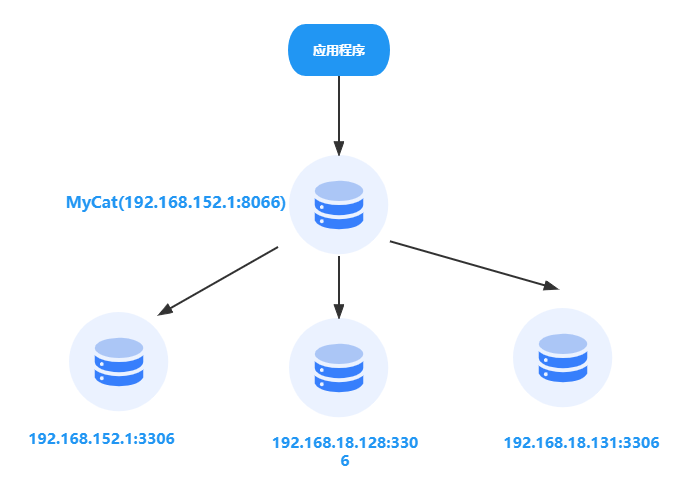
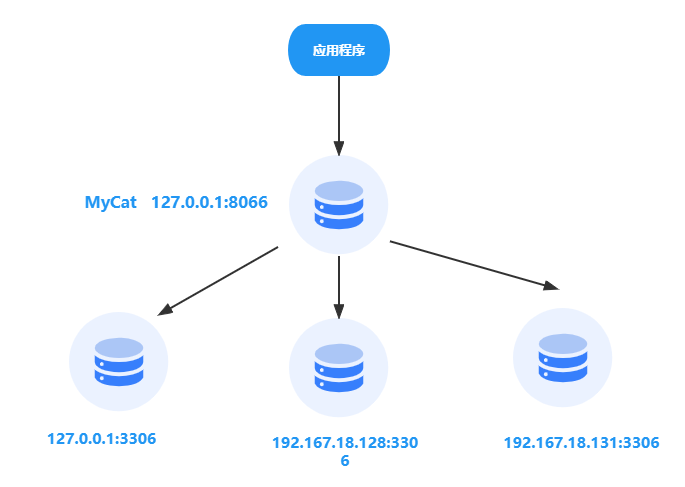
mycat

diff --git a/md/mysql/mycat1.md b/md/mysql/mycat1.md
@@ -29,11 +29,6 @@
 #### 1. 需求
 `cloud_goods`表数据量过大，需要进行数据分片，分为3个数据节点，每个节点位于不同服务器上
 
-* `192.168.152.1:8066`  MyCat服务器
-* `192.168.152.1:3306`       MySQL分片服务器1
-* `192.167.18.128:3306`      MySQL分片服务器2
-* `192.167.18.131:3306`      MySQL分片服务器3
-
 ![](https://fgq233.github.io/imgs/mysql/mycat3.png)
 
 
@@ -46,7 +41,7 @@
 	<!-- 逻辑库 -->
 	<schema name="dbX" checkSQLschema="true" sqlMaxLimit="100">
 		<!-- 逻辑表 -->
-		<table name="cloud_goods" primaryKey="id" dataNode="dn1,dn2,dn3" rule="sharding-by-intfile" autoIncrement="true" fetchStoreNodeByJdbc="true"/>
+		<table name="cloud_goods" primaryKey="id" dataNode="dn1,dn2,dn3" rule="auto-sharding-long" autoIncrement="true" />
 	</schema>
 	 
 	<!-- 分片节点 -->
@@ -58,17 +53,17 @@
 	 <!-- 节点主机1 -->
 	<dataHost name="dataHost1" maxCon="1000" minCon="10" balance="0" writeType="0" dbType="mysql" dbDriver="jdbc" switchType="1"  slaveThreshold="100">
 		<heartbeat>select user()</heartbeat>
-		<writeHost host="master" url="jdbc:mysql://192.168.152.1:3306?useSSL=false&amp;serverTimezone=UTC" user="root" password="1234"/> 
+		<writeHost host="master" url="jdbc:mysql://127.0.0.1:3306?useSSL=false&amp;serverTimezone=UTC" user="root" password="1234"/> 
 	</dataHost>
 	 <!-- 节点主机2 -->
 	<dataHost name="dataHost2" maxCon="1000" minCon="10" balance="0" writeType="0" dbType="mysql" dbDriver="jdbc" switchType="1"  slaveThreshold="100">
 		<heartbeat>select user()</heartbeat>
-		<writeHost host="master" url="jdbc:mysql://192.168.18.128:3306?useSSL=false&amp;serverTimezone=UTC" user="root" password="1234"/> 
+		<writeHost host="master" url="jdbc:mysql://192.167.18.128:3306?useSSL=false&amp;serverTimezone=UTC" user="root" password="1234"/> 
 	</dataHost>
 	<!-- 节点主机3 -->
 	<dataHost name="dataHost3" maxCon="1000" minCon="10" balance="0" writeType="0" dbType="mysql" dbDriver="jdbc" switchType="1"  slaveThreshold="100">
 		<heartbeat>select user()</heartbeat>
-		<writeHost host="master" url="jdbc:mysql://192.168.18.131:3306?useSSL=false&amp;serverTimezone=UTC" user="root" password="1234"/> 
+		<writeHost host="master" url="jdbc:mysql://192.167.18.131:3306?useSSL=false&amp;serverTimezone=UTC" user="root" password="1234"/> 
 	</dataHost>
 	
 </mycat:schema>
@@ -82,7 +77,7 @@
   * `name` 表名
   * `primaryKey` 主键
   * `dataNode` 关联的分片节点，对应`dataNode`的`name`
-  * `rule` 分片规则
+  * `rule` 分片规则，关联 `rule.xml`
   
 * `dataNode` 分片节点 
   * `name` 节点名
@@ -91,7 +86,16 @@
   
 * `dataHost` 实际存放数据的物理节点主机
   * `name` 主机名
+  * 注意防火墙、数据库用户权限 
+   
+```
+# 防火墙
+netsh advfirewall set allprofile state off 
 
+# 数据库用户权限
+grant all privileges on *.* to 'root'@'%';
+flush privileges;   
+```
 
 #### 3. MyCat 用户配置  server.xml
 ```
@@ -131,6 +135,7 @@
 * 其他命令
   * `mycat stop` 停止服务
   * `mycat remove` 移除安装的服务
+  * `mycat restart` 重启服务
   * `mycat status` 服务状态
 
 ![](https://fgq233.github.io/imgs/mysql/mycat4.png)
@@ -141,5 +146,36 @@
 
 ```
 mysql -h192.168.152.1 -P8066 -uroot -p123456
+mysql -h127.0.0.1 -P8066 -uroot -p123456
 ```
 
+![](https://fgq233.github.io/imgs/mysql/mycat5.png)
+
+
+#### 6. 测试
+```
+-- 先切换到逻辑库
+use dbX
+
+-- 建表
+CREATE TABLE cloud_goods  (
+  id bigint NOT NULL,
+  title varchar(100) NOT NULL,
+  PRIMARY KEY(id) 
+) ENGINE = InnoDB CHARACTER SET = utf8;
+
+-- 插入数据
+INSERT INTO cloud_goods(ID, TITLE) VALUES(1, '666');
+INSERT INTO cloud_goods(ID, TITLE) VALUES(5000001, '888');
+INSERT INTO cloud_goods(ID, TITLE) VALUES(10000001, '88888888');
+```
+
+* 建表后，3个库都出现了 `cloud_goods`
+* 插入数据，查看后，发现数据分别在3个库中，分片成功
+    * 此处分片规则为 `auto-sharding-long`，根据id分片(算法定义在`auto-sharding-long.txt`)
+    
+```
+0-500M=0        # 分片1：id在1-500W的数据
+500M-1000M=1    # 分片2：id在500W-1000W的数据
+1000M-1500M=2   # 分片3：id在1000W-1500W的数据
+```

diff --git a/md/index/mysql.md b/md/index/mysql.md
@@ -8,6 +8,7 @@
 1. [日志][log]
 1. [主从复制][masterslave]
 1. [分库分表][fkfb]
+1. [MyCat 分库分表][mycat1]
 1. [常用命令][common]
 
 
@@ -20,6 +21,7 @@
 
 
 
+[mycat1]: https://fgq233.github.io/md/mysql/mycat1
 [fkfb]: https://fgq233.github.io/md/mysql/fkfb
 [tools]: https://fgq233.github.io/md/mysql/tools
 [masterslave]: https://fgq233.github.io/md/mysql/masterslave
